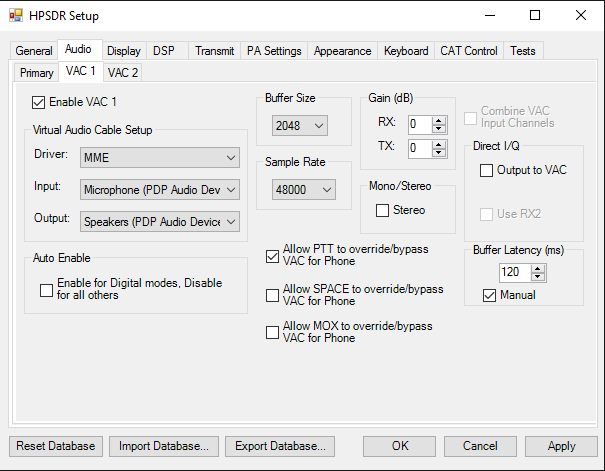
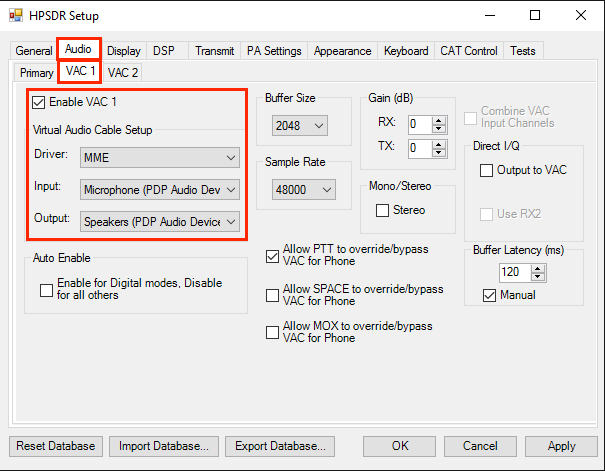
sdr audio settings

Changed region(s): [[0.0298, 0.0594, 0.4165, 0.535]]

diff --git a/HAMlab/source/appsFeatures/appSDR.rst b/HAMlab/source/appsFeatures/appSDR.rst
@@ -73,6 +73,9 @@ Power SDR configuration
 
 Audio configuration
 
+.. image :: ../quickStart/HamLab_images/PowerSDRaudiosetup.PNG
+
+
 HAMlab configuration
 
     
